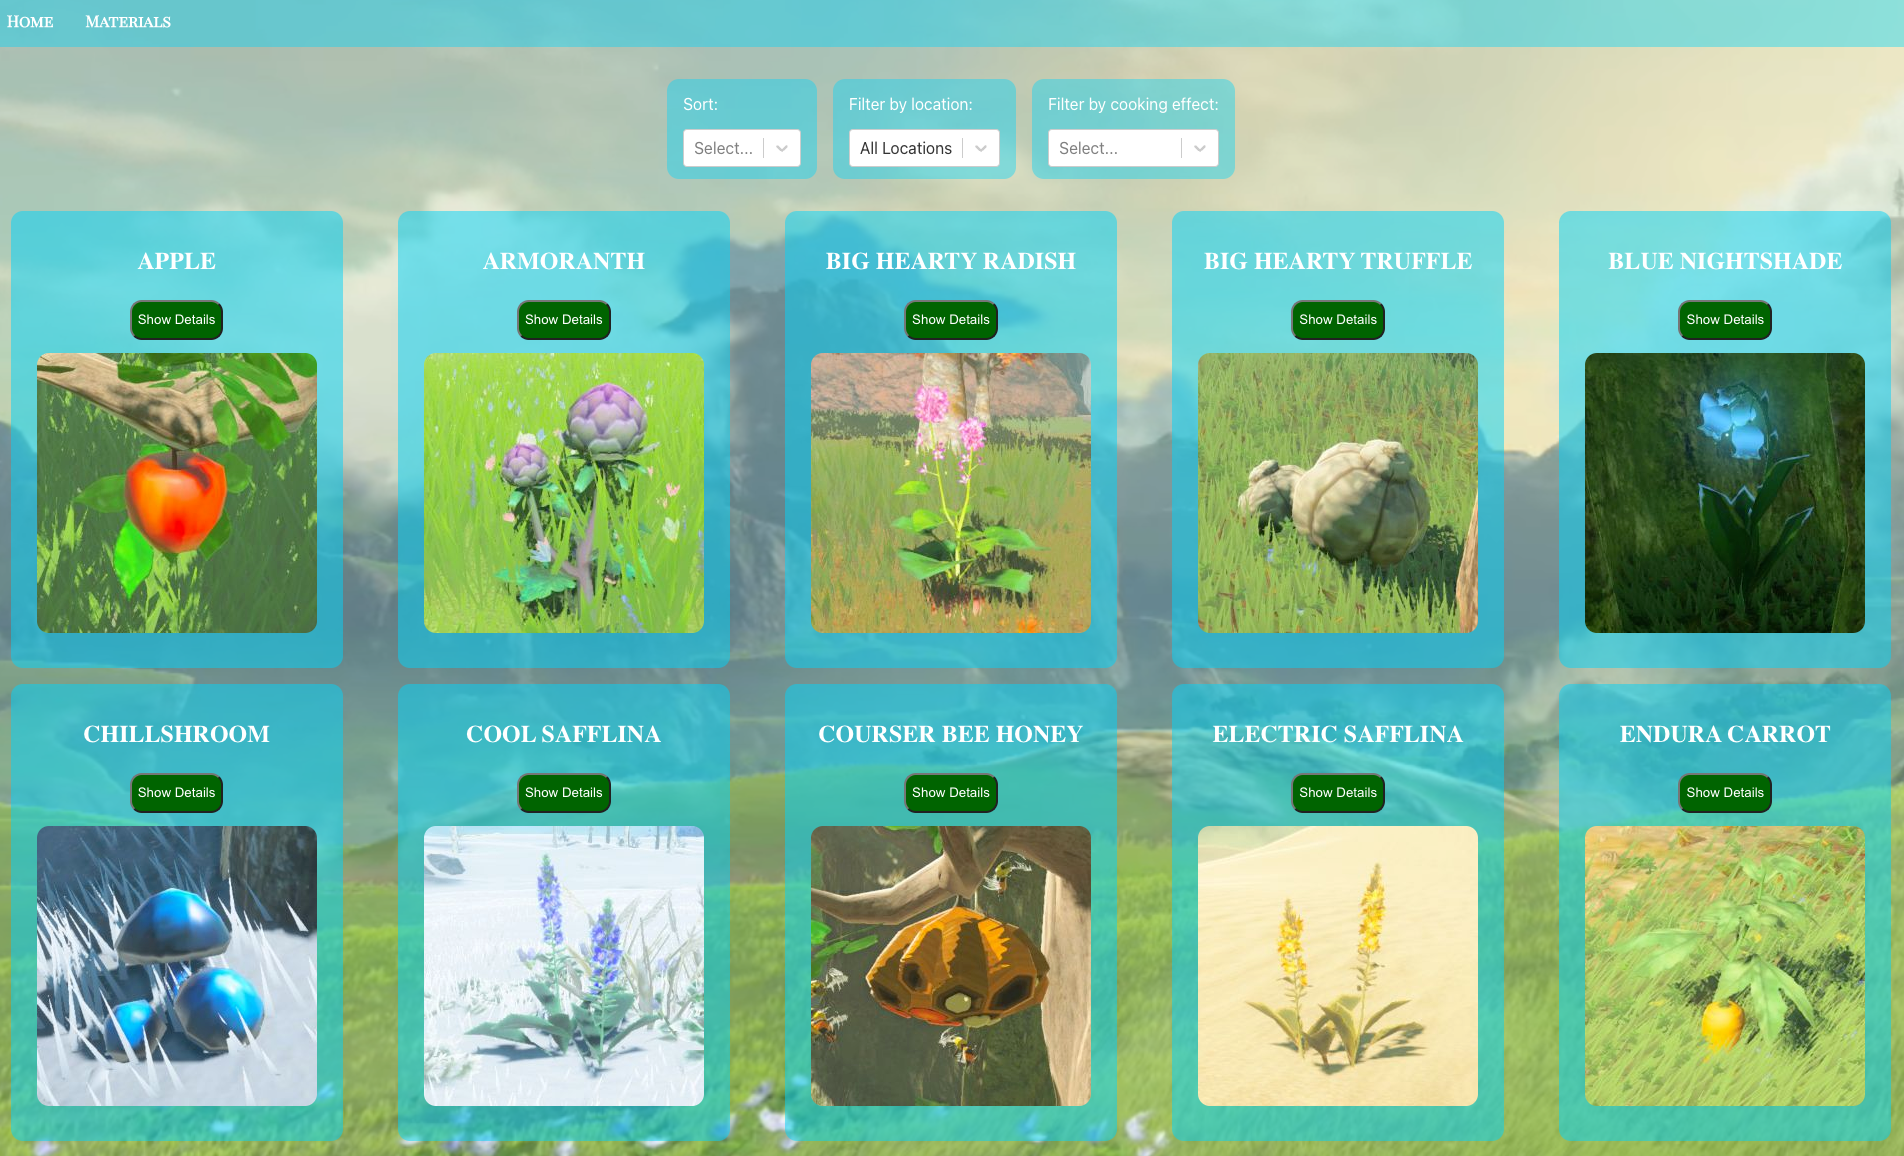
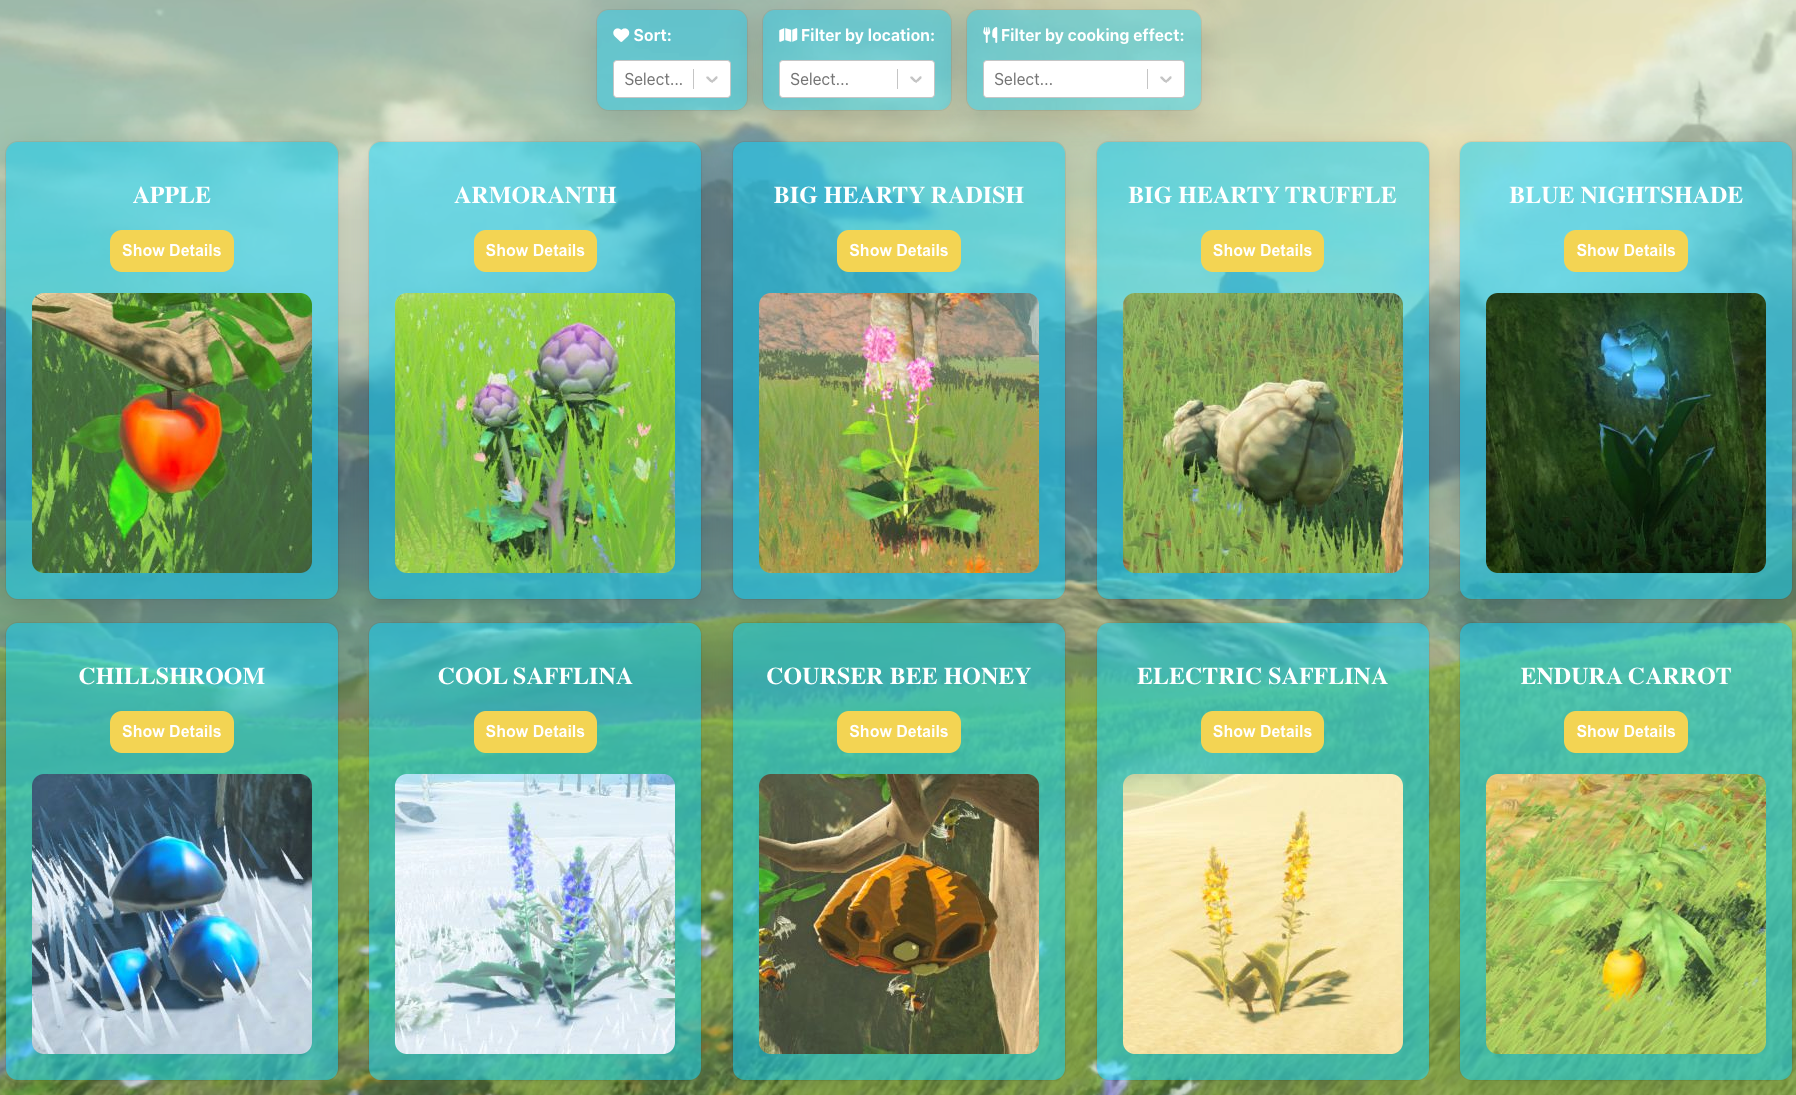
Update styling + README screenshots

diff --git a/src/pages/MaterialsIndexPage/MaterialsIndexPage.js b/src/pages/MaterialsIndexPage/MaterialsIndexPage.js
@@ -87,7 +87,12 @@ function MaterialsIndexPage() {
 			});
 			setCookingEffects(cookingEffectsArray);
 		} catch (error) {
-			console.log(error);
+			return (
+				<>
+					<h1>Something went wrong!</h1>
+					<h2>Please try again later...</h2>
+				</>
+			);
 		}
 	};
 

diff --git a/src/components/MaterialCard/MaterialCard.js b/src/components/MaterialCard/MaterialCard.js
@@ -1,6 +1,5 @@
 import "./MaterialCard.css";
 import { useState } from "react";
-// import HeartContainers from "../HeartContainers/HeartContainers";
 
 function MaterialCard({ material }) {
 	const [detailsHidden, setDetailsHidden] = useState(true);

diff --git a/src/pages/HomePage/HomePage.css b/src/pages/HomePage/HomePage.css
@@ -63,8 +63,7 @@
   
 .home-page-content a:hover {
     background-color: rgb(245, 199, 17);
-    /* background-color: rgb(0, 115, 0); */
-    transition: 0.5s;
+    transition: 0.25s;
     cursor: pointer;
   }
 

diff --git a/src/components/MaterialCard/MaterialCard.css b/src/components/MaterialCard/MaterialCard.css
@@ -24,9 +24,7 @@ button {
   
   button:hover {
     background-color: rgb(245, 199, 17);
-    /* background-color: rgb(0, 115, 0); */
     transition: 0.5s;
-    cursor: pointer;
   }
 
 img {

diff --git a/README.md b/README.md
@@ -1,6 +1,10 @@
 # Hyrule Material Handbook
 
-This app is an index of the gatherable materials featured in Legend of Zelda: Breath of the Wild. With features like sorting and filtering, a user can easily determine what a material is and how to best locate it. All material information is collected using the [Hyrule Compendium API](https://gadhagod.github.io/Hyrule-Compendium-API/#/).
+[See the app in action!](https://hyrule-material-handbook.netlify.app/)
+
+## Description
+
+This app is an index of the gatherable materials featured in Legend of Zelda: Breath of the Wild. With features like sorting and filtering, a user can easily determine what a material is and where to find it. All material information is collected using the [Hyrule Compendium API](https://gadhagod.github.io/Hyrule-Compendium-API/#/).
 
 ## Technologies Used
 
@@ -17,6 +21,12 @@ This app is an index of the gatherable materials featured in Legend of Zelda: Br
 ## Getting Started
 
 [Check out the app here!](https://hyrule-material-handbook.netlify.app/) Upon loading, you will see a home page where you can navigate to the materials. All materials will be shown in alphabetical order. You can click on a material's "Show Details" button to view its details. If you would like to sort or filter the materials, you can do so using the dropdown menus that are beneath the navigation bar.
+
+If you would like to run the application locally, you can do so by [cloning](https://docs.github.com/en/repositories/creating-and-managing-repositories/cloning-a-repository) it onto your device. You would then need to run the command `npm i` to download the necessary packages. After that run `npm start` to run the application locally.
+
+## Contribution Guidelines
+
+If you have an idea to improve the application, I would love to see it! Feel free to [fork](https://docs.github.com/en/get-started/quickstart/fork-a-repo) the repository and create a [pull request](https://docs.github.com/en/pull-requests/collaborating-with-pull-requests/proposing-changes-to-your-work-with-pull-requests/creating-a-pull-request) with any updates you've made. As mentioned above, don't forget to run `npm i` to download all packages.
 
 ## Future Enhancements
 
